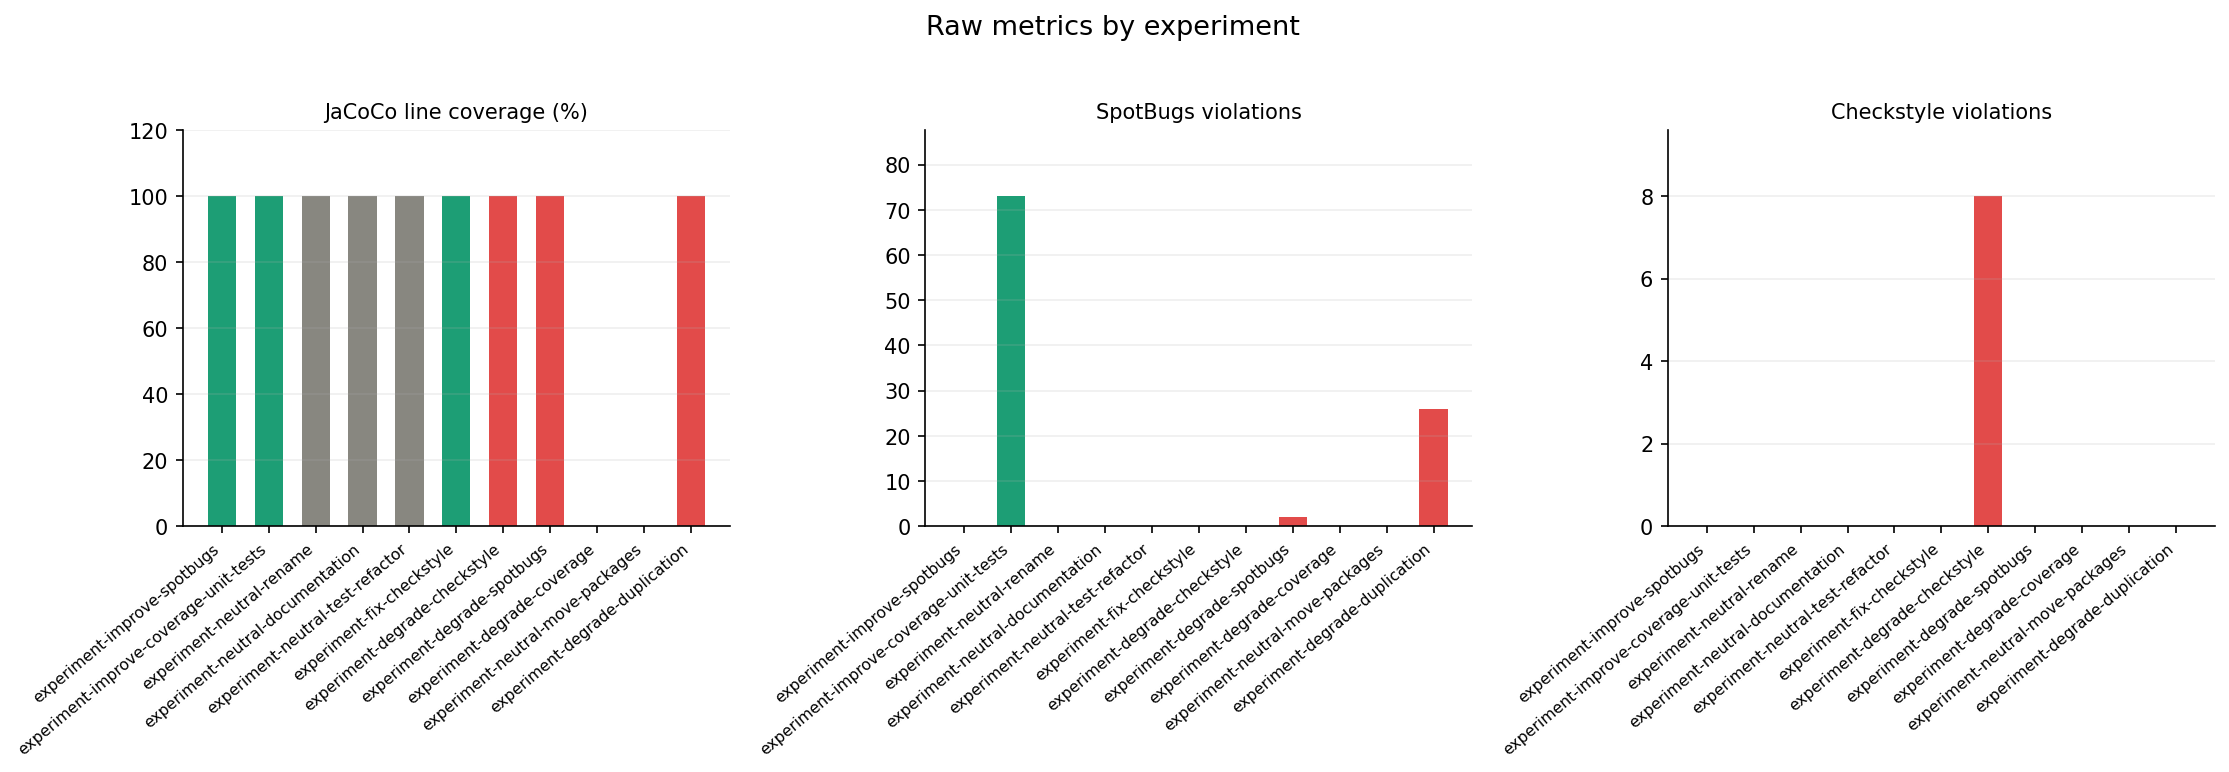
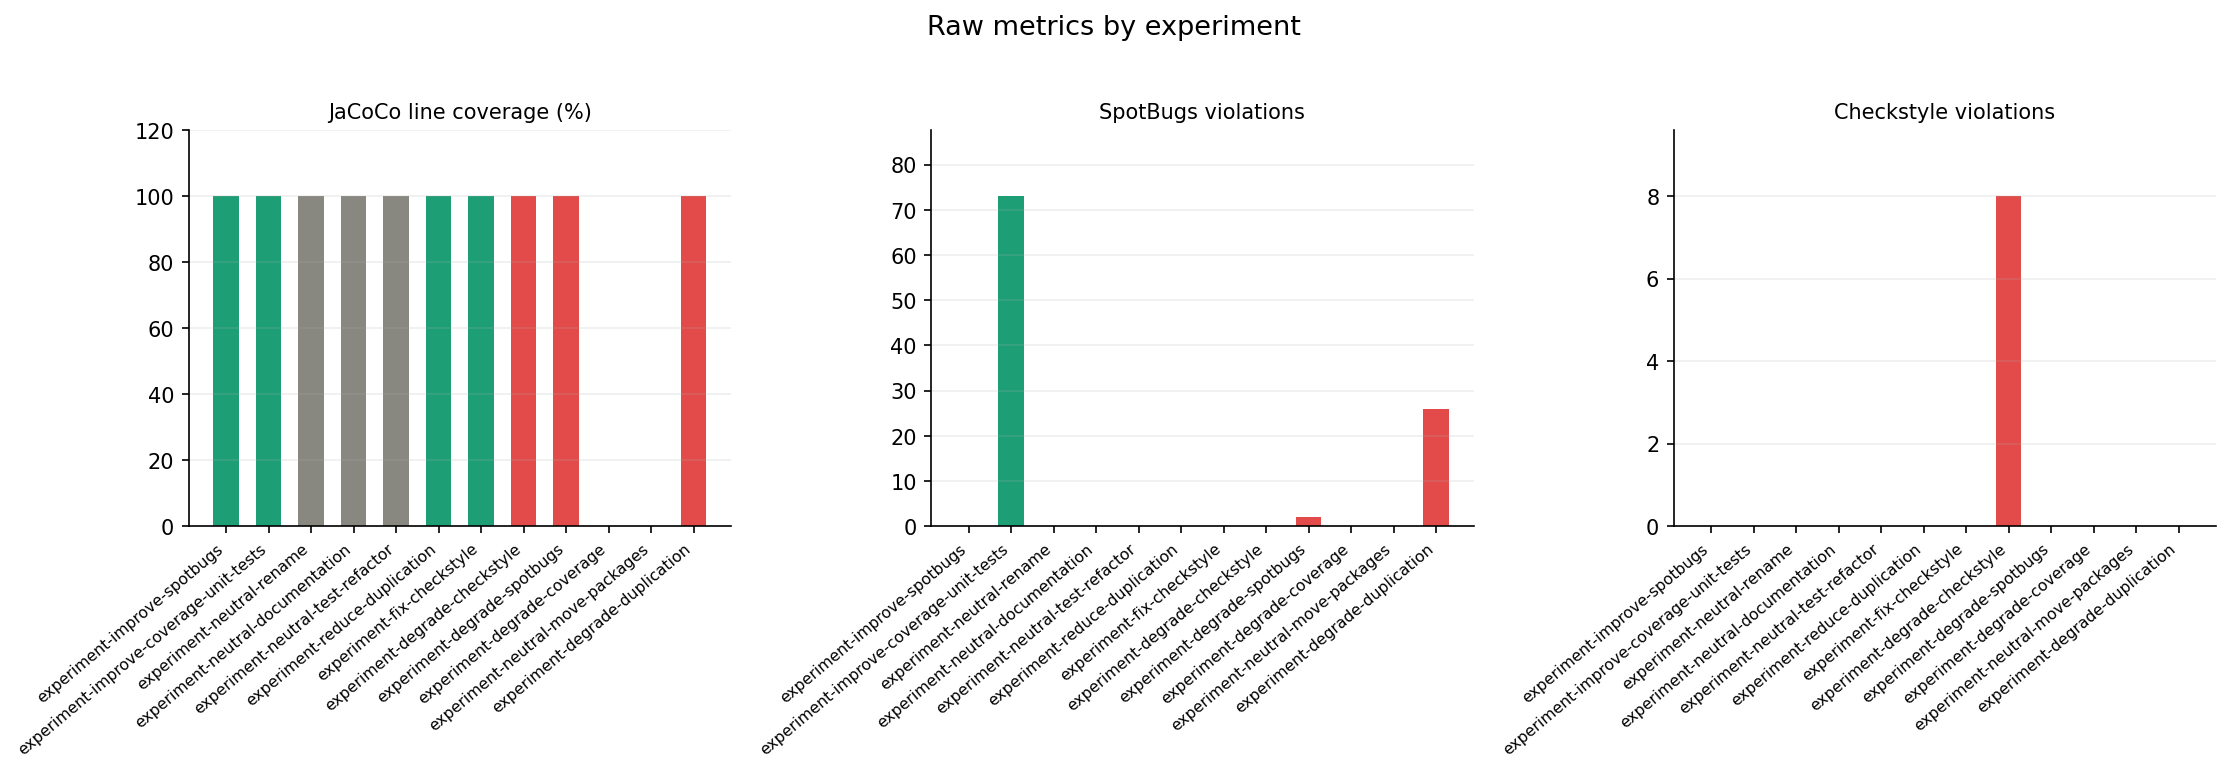
Add results

diff --git a/fitness-metrics-analyzer/main.py b/fitness-metrics-analyzer/main.py
@@ -81,7 +81,9 @@ def main():
     df = df[df["branch"].str.startswith("experiment")].reset_index(drop=True)
 
     # Keep only the last run per branch (handles re-runs)
-    df = df.sort_values("timestamp").drop_duplicates(subset="branch", keep="last")
+    # Keep only the last run per branch that has a valid fitness score
+    df = df[df["fitness_score"].notna()]
+    df = df.sort_values("timestamp", na_position="first").drop_duplicates(subset="branch", keep="last")
     df = df.sort_values("fitness_score", ascending=False).reset_index(drop=True)
 
     print(f"After deduplication: {len(df)} unique experiment(s).")

diff --git a/fitness-metrics-analyzer/data.py b/fitness-metrics-analyzer/data.py
@@ -5,6 +5,7 @@ from typing import Optional, List
 CATEGORY_MAP = {
     "improve":  "improvement",
     "fix":      "improvement",
+    "reduce":   "improvement",
     "feature":  "feature",
     "degrade":  "degradation",
     "neutral":  "neutral",
